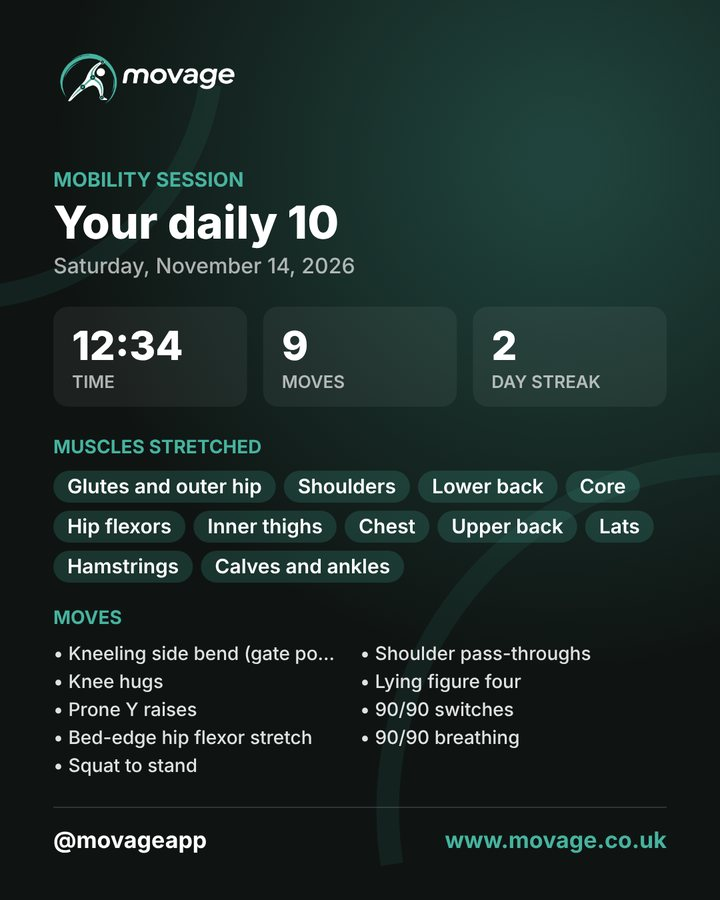
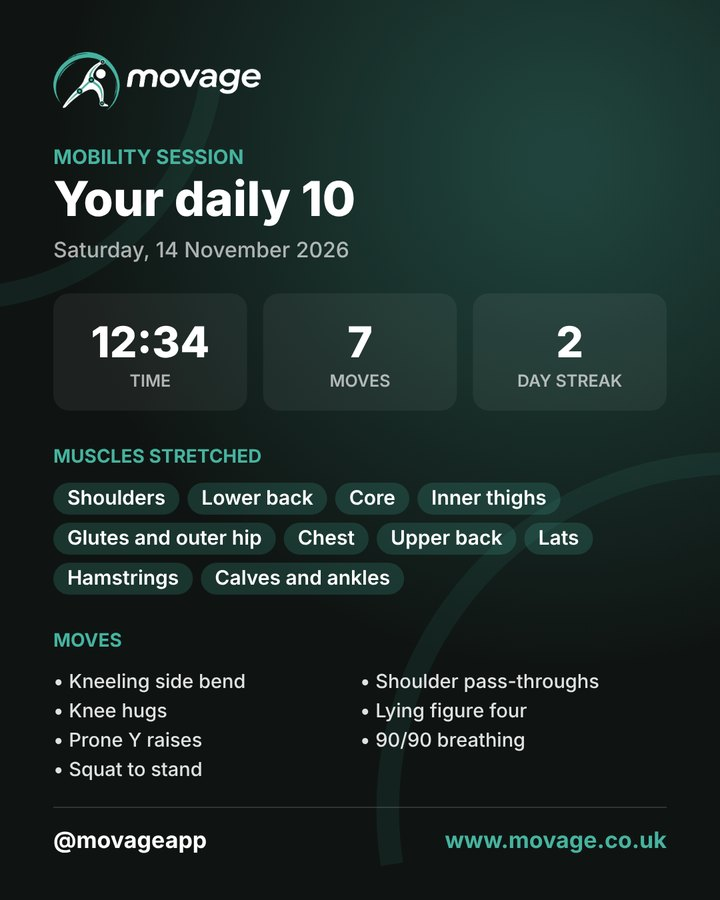
Update the session card image to the new layout
Claude-Session: https://claude.ai/code/session_01LbcmbnbV16J8dmj9bBC9JB

diff --git a/index.html b/index.html
@@ -179,7 +179,7 @@
 
 <section class="sec" style="padding-top:24px" aria-labelledby="share-title">
   <div class="wrap share">
-    <img src="assets/share-session.jpg" alt="A Movage session card showing a 12 minute routine, 9 moves and the muscles stretched" width="720" height="900" loading="lazy">
+    <img src="assets/share-session.jpg?v=4" alt="A Movage session card showing a 12 minute routine, 7 moves, a 2 day streak and the muscles stretched" width="720" height="900" loading="lazy">
     <div>
       <p class="eyebrow">Show the work</p>
       <h2 id="share-title" style="margin-top:14px">Every session counts. Make sure people see it.</h2>
